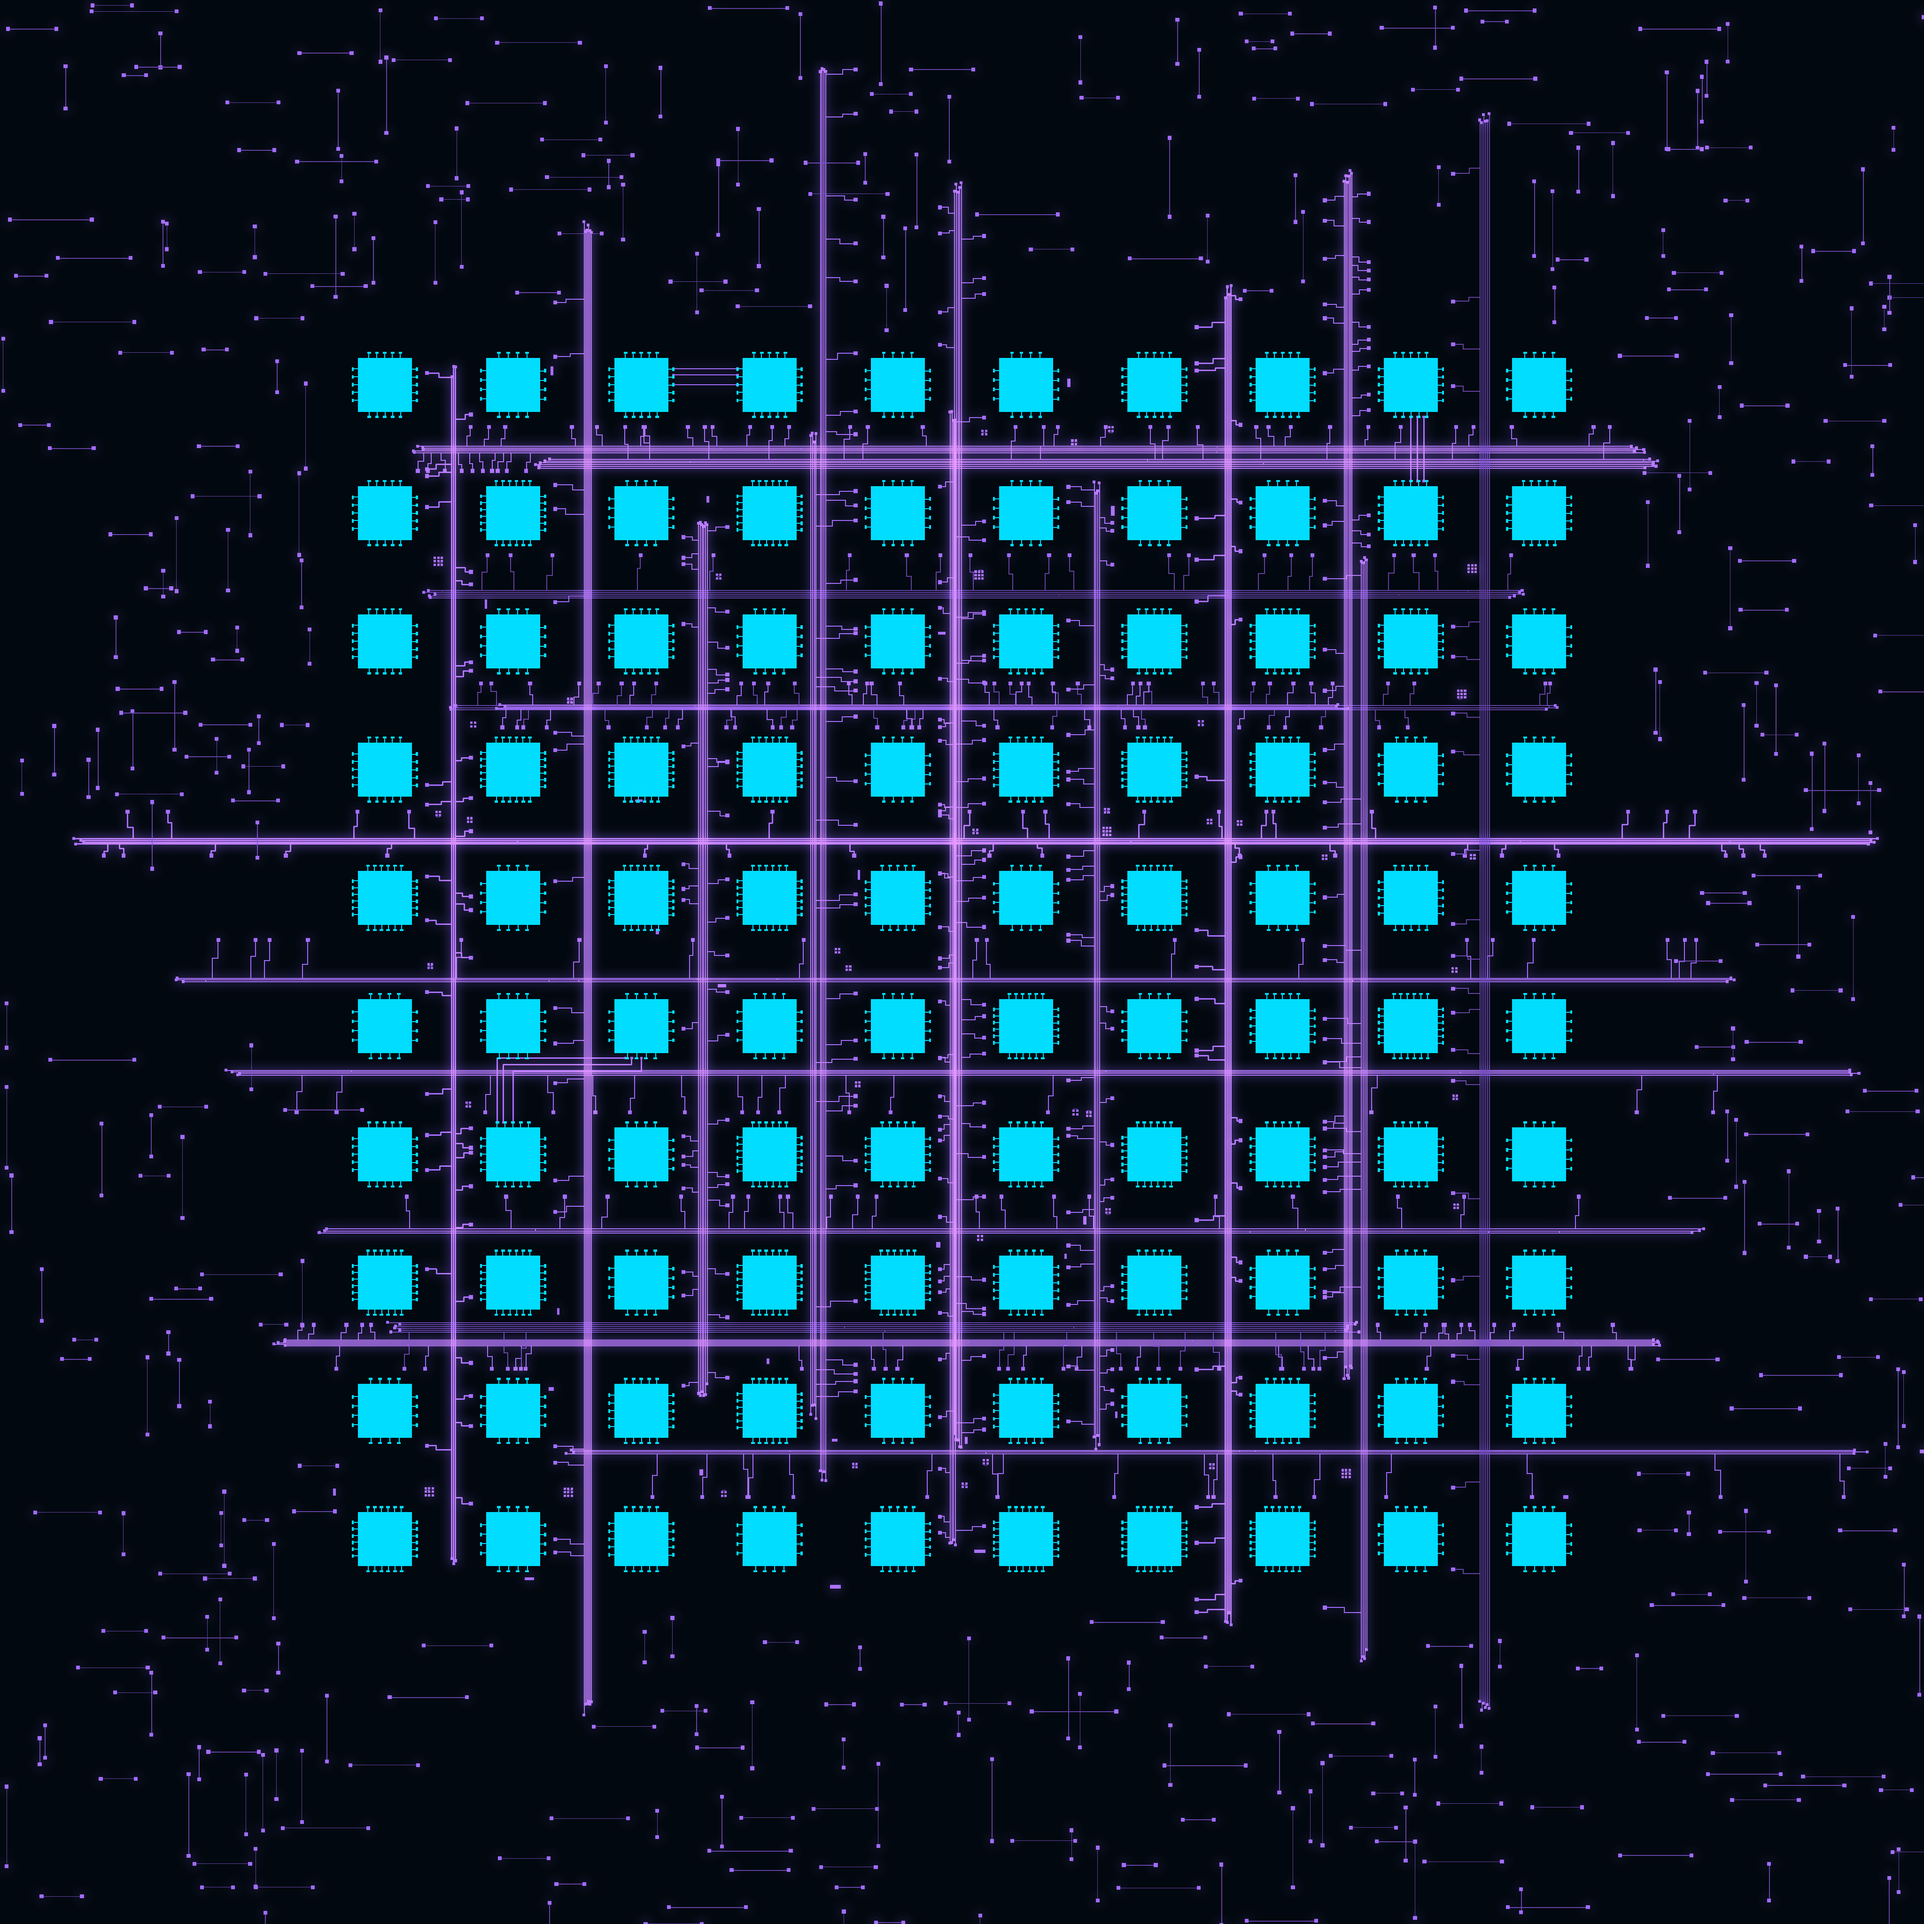
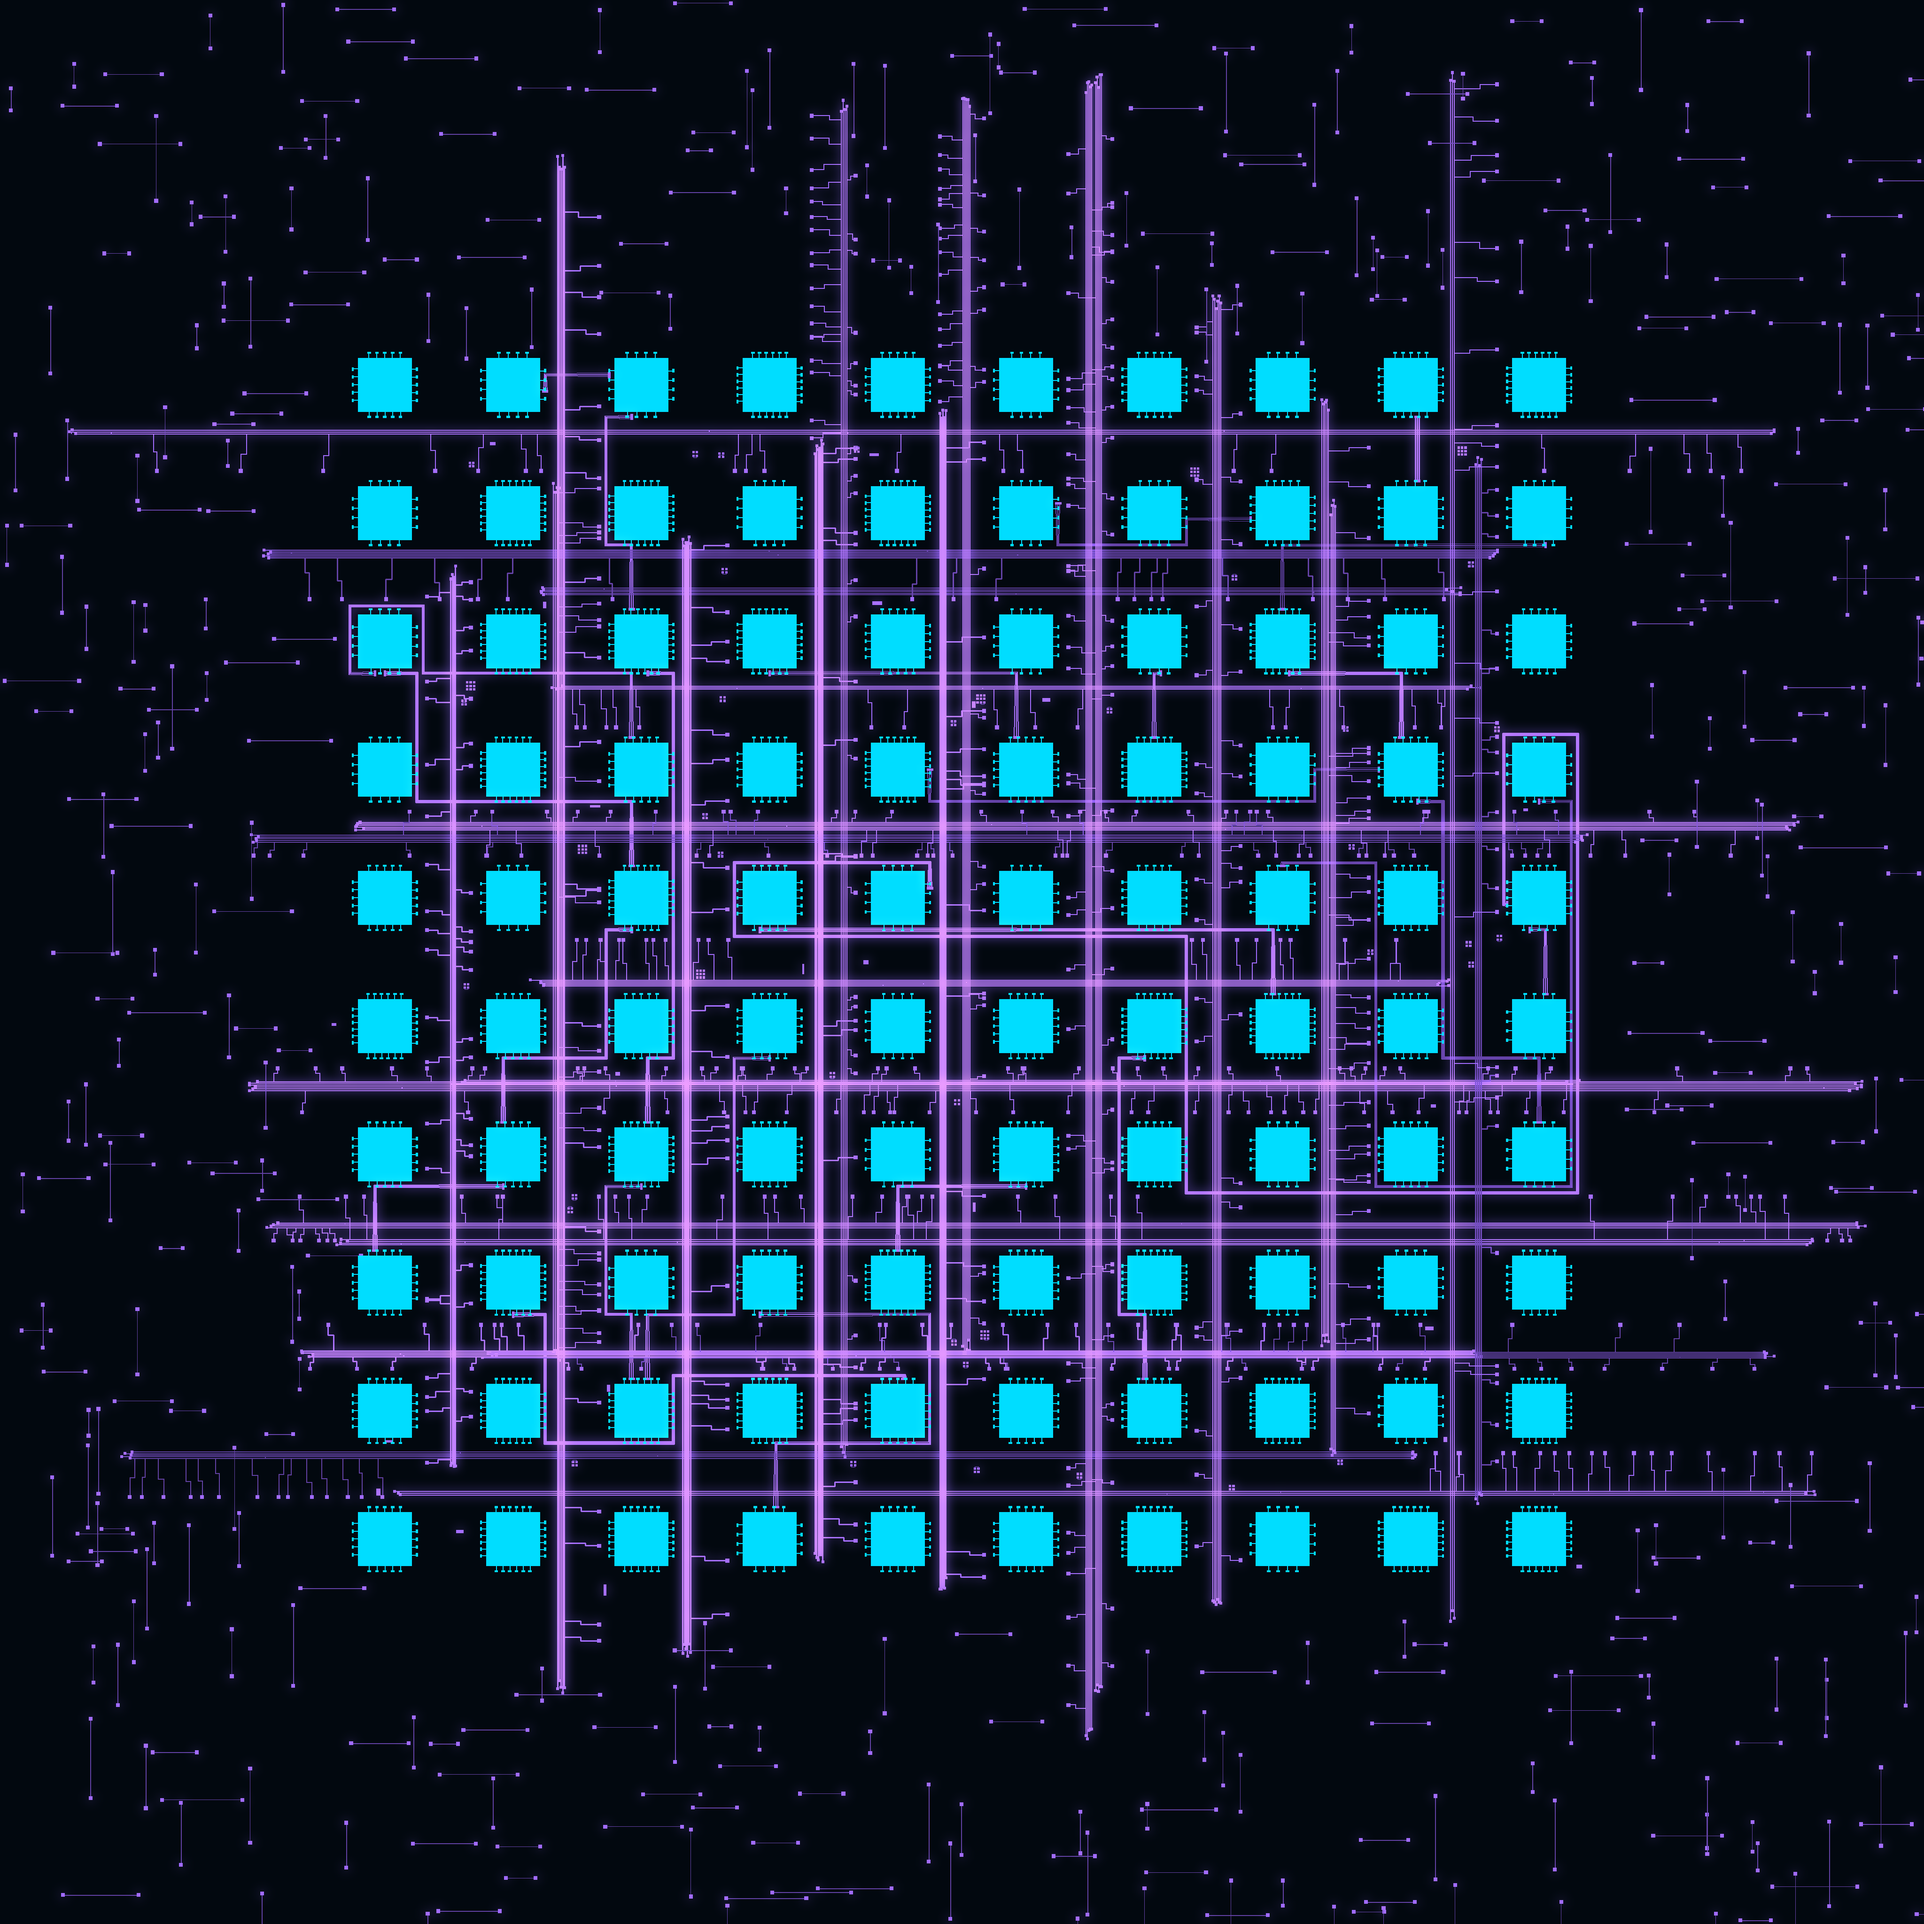
hackers: true ribbon-offset routing — all 3 lines bend together
Replaces the 3-independent-BFS-per-net approach with one BFS for the
centerline + geometric perpendicular offset for the two outer ribbon
lines. At every corner the offset point shifts by perp(d_in)+
perp(d_out) so all three lines bend together as a unit, maintaining
parallel spacing through the whole route.

Algorithm:
1. BFS the middle pin pair only (centerline)
2. Reduce dense path to corner points (only direction-change cells)
3. For k = -spacing, 0, +spacing: emit an offset corner sequence
   where each corner shifts by perp(neighboring directions) * k
4. Draw 3 strokes through the offset corner sequences

If this regresses the floor look, revert with:
  git revert HEAD

Changed region(s): [[0.0312, 0.0312, 0.9688, 0.9062]]

diff --git a/tools/gen_floor.py b/tools/gen_floor.py
@@ -427,27 +427,81 @@ def bake(
         tips_b = [t for t in all_tips[(ix_b, iz_b)] if t[2] == side_b]
         if len(tips_a) < 3 or len(tips_b) < 3:
             continue
-        # Random consecutive pin window of 3
+        # True ribbon-offset routing: ONE BFS for the centerline (between
+        # the middle pin of each chip's 3-pin window), then geometrically
+        # offset that path perpendicular to travel direction for the two
+        # adjacent ribbon lines. All three lines bend together at every
+        # corner, maintaining parallel spacing — what nano-banana called
+        # the "Ribbon Cables ... bend together" property the prior
+        # 3-independent-BFS approach was missing.
         start_pin_a = rng.randint(0, len(tips_a) - 3)
         start_pin_b = rng.randint(0, len(tips_b) - 3)
-        net_paths: list[list[tuple[int, int]]] = []
-        for k in range(3):
-            pin_a = tips_a[start_pin_a + k]
-            pin_b = tips_b[start_pin_b + k]
-            grid_a = router.world_to_grid(pin_a[0], pin_a[1])
-            grid_b = router.world_to_grid(pin_b[0], pin_b[1])
-            path = router.find_path(grid_a, grid_b)
-            if path is None:
-                break
-            net_paths.append(path)
-            router.block_path(path, thickness=2)
-        if len(net_paths) < 3:
+        center_pin_a = tips_a[start_pin_a + 1]
+        center_pin_b = tips_b[start_pin_b + 1]
+        grid_a = router.world_to_grid(center_pin_a[0], center_pin_a[1])
+        grid_b = router.world_to_grid(center_pin_b[0], center_pin_b[1])
+        center_path = router.find_path(grid_a, grid_b)
+        if center_path is None:
             continue
-        # Render each path as a stroke + endpoint pads
+        router.block_path(center_path, thickness=3)
+        # Reduce dense path to corner points (only direction changes).
+        center_corners: list[tuple[int, int]] = [center_path[0]]
+        prev_dir: tuple[int, int] | None = None
+        for i in range(1, len(center_path)):
+            cur_dir = (
+                center_path[i][0] - center_path[i - 1][0],
+                center_path[i][1] - center_path[i - 1][1],
+            )
+            if prev_dir is not None and cur_dir != prev_dir:
+                center_corners.append(center_path[i - 1])
+            prev_dir = cur_dir
+        center_corners.append(center_path[-1])
+
+        # Generate offset corner-point sequences for k = -1, 0, +1.
+        # At each corner, offset point shifts by perp(d_in)+perp(d_out)
+        # times k. perp((dx, dz)) = (dz, -dx). At endpoints, only the
+        # one neighboring direction's perp applies.
+        def _offset(corners: list[tuple[int, int]], k: float) -> list[tuple[float, float]]:
+            if len(corners) < 2 or k == 0:
+                return [(float(c), float(r)) for c, r in corners]
+            out: list[tuple[float, float]] = []
+            for i, p in enumerate(corners):
+                shift_x = 0.0
+                shift_z = 0.0
+                if i > 0:
+                    d = (corners[i][0] - corners[i - 1][0], corners[i][1] - corners[i - 1][1])
+                    sgn = (
+                        1 if d[0] > 0 else (-1 if d[0] < 0 else 0),
+                        1 if d[1] > 0 else (-1 if d[1] < 0 else 0),
+                    )
+                    shift_x += sgn[1]
+                    shift_z += -sgn[0]
+                if i < len(corners) - 1:
+                    d = (corners[i + 1][0] - corners[i][0], corners[i + 1][1] - corners[i][1])
+                    sgn = (
+                        1 if d[0] > 0 else (-1 if d[0] < 0 else 0),
+                        1 if d[1] > 0 else (-1 if d[1] < 0 else 0),
+                    )
+                    shift_x += sgn[1]
+                    shift_z += -sgn[0]
+                # Endpoint: divide by 1 (only one neighbor); middle: divide by 2 (sum)
+                divisor = 2.0 if 0 < i < len(corners) - 1 else 1.0
+                shift_x = (shift_x / divisor) * k
+                shift_z = (shift_z / divisor) * k
+                out.append((p[0] + shift_x, p[1] + shift_z))
+            return out
+
+        ribbon_spacing = 0.6  # cells (~0.18u with 0.30u grid) — tight ribbon
+        ribbons = [
+            _offset(center_corners, -ribbon_spacing),
+            [(float(c), float(r)) for c, r in center_corners],
+            _offset(center_corners, +ribbon_spacing),
+        ]
+        # Render: 3 parallel strokes through the same corner sequence.
         bw = rng.choice([0.08, 0.10, 0.12])
         bcolor = primary if rng.random() > 0.15 else primary_mid
-        for path in net_paths:
-            world_pts = [router.grid_to_world(c, r) for c, r in path]
+        for corners in ribbons:
+            world_pts = [router.grid_to_world(c, r) for c, r in corners]
             for i in range(len(world_pts) - 1):
                 _line(
                     world_pts[i][0],
